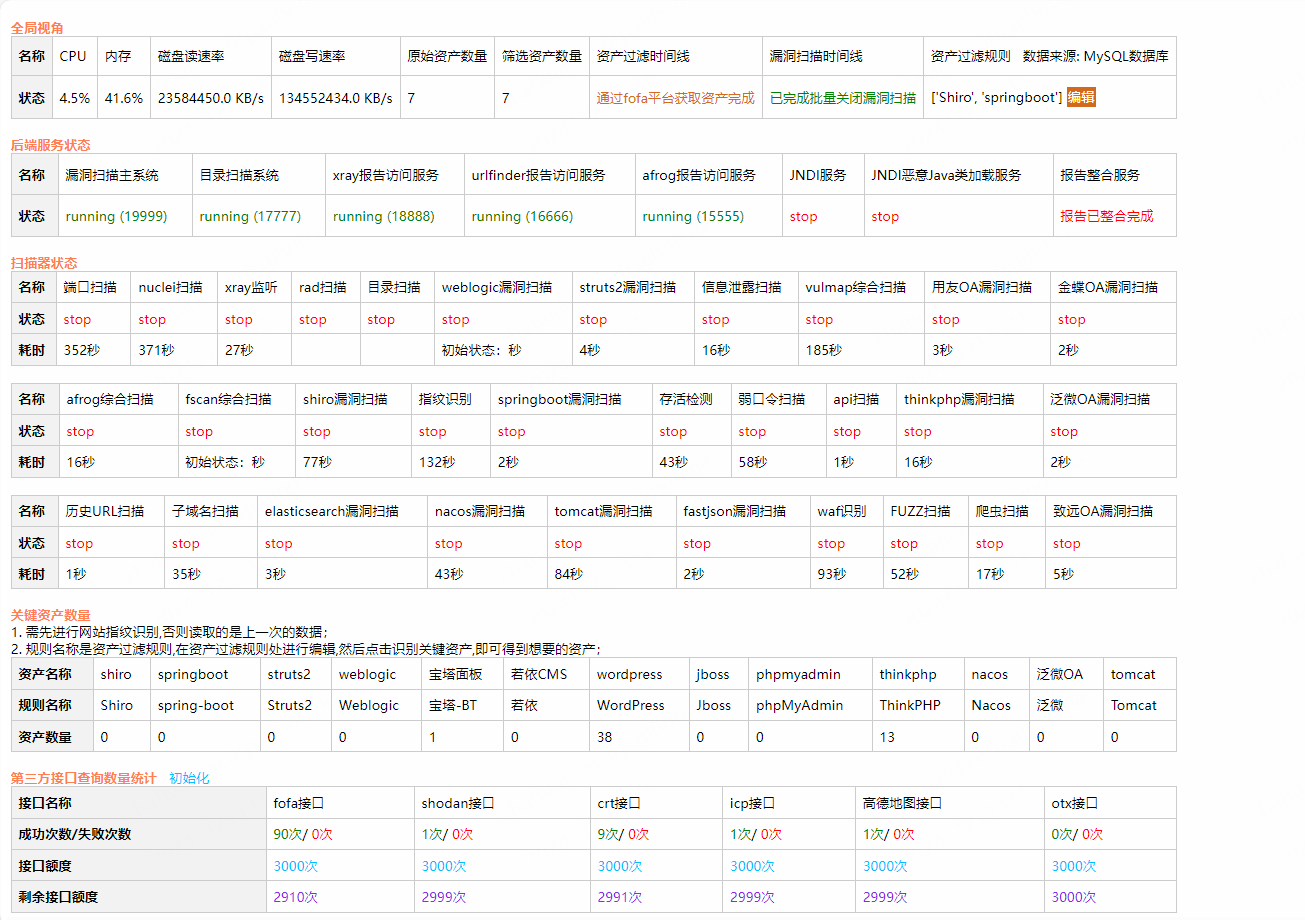
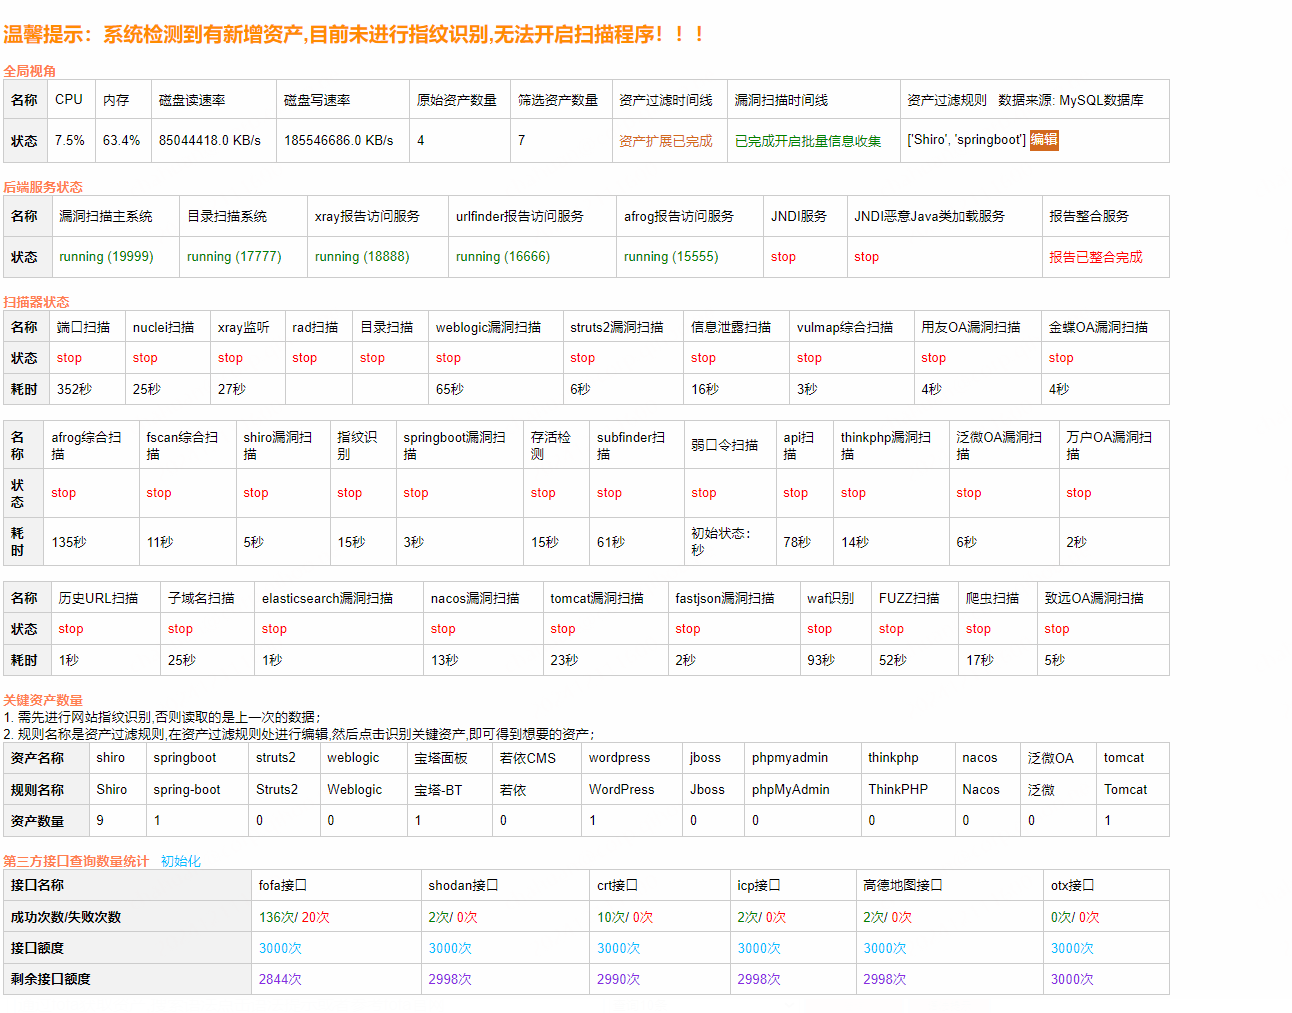
系统优化

diff --git a/static/js/common.js b/static/js/common.js
@@ -113,6 +113,10 @@ function startbutton() {
     button24.disabled = false;
     var button25 = document.getElementById("button25");
     button25.disabled = false;
+    var button26 = document.getElementById("button26");
+    button26.disabled = false;
+    var button27 = document.getElementById("button27");
+    button27.disabled = false;
     var button51 = document.getElementById("button51");
     button51.disabled = false;
     var button63 = document.getElementById("button63");
@@ -149,6 +153,10 @@ function stopbutton() {
     button24.disabled = true;
     var button25 = document.getElementById("button25");
     button25.disabled = true;
+    var button26 = document.getElementById("button26");
+    button26.disabled = true;
+    var button27 = document.getElementById("button27");
+    button27.disabled = true;
     var button51 = document.getElementById("button51");
     button51.disabled = true;
     var button63 = document.getElementById("button63");
@@ -423,6 +431,8 @@ function openModal() {
                 // 运行状态显示绿色，停止状态显示红色
                 document.getElementById("spp1").innerHTML = info.nmapstatus1;
                 document.getElementById("spp1a").innerHTML = info.nmapstatus2;
+                document.getElementById("spp62").innerHTML = info.subfinder_status1;
+                document.getElementById("spp62a").innerHTML = info.subfinder_status2;
                 document.getElementById("spp2").innerHTML = info.nucleistatus1;
                 document.getElementById("spp2a").innerHTML = info.nucleistatus2;
                 document.getElementById("spp3").innerHTML = info.xraystatus1;
@@ -553,6 +563,8 @@ function openModal() {
                 document.getElementById("totalspp1").innerHTML = info.total_report_status_result1;
                 // 扫描器耗时统计
                 document.getElementById("diffnmapid").innerHTML = info.nmapcontime;
+                document.getElementById("diffsubfinderid").innerHTML = info.subfindercontime;
+                
                 document.getElementById("diffeholeid").innerHTML = info.eholecontime;
                 document.getElementById("diffbbscanid").innerHTML = info.bbscancontime;
                 document.getElementById("diffotxid").innerHTML = info.otxcontime;

diff --git a/templates/index.html b/templates/index.html
@@ -237,6 +237,7 @@
 							<td>指纹识别</td>
 							<td>springboot漏洞扫描</td>
 							<td>存活检测</td>
+							<td>subfinder扫描</td>
 							<td>弱口令扫描</td>
 							<td>api扫描</td>
 							<td>thinkphp漏洞扫描</td>
@@ -270,6 +271,10 @@
 								<span id="spp13a" style="color: red;"></span>
 							</td>
 							<td>
+								<span id="spp62" style="color:green"></span>
+								<span id="spp62a" style="color: red;"></span>
+							</td>
+							<td>
 								<span id="spp29" style="color:green"></span>
 								<span id="spp29a" style="color: red;"></span>
 							</td>
@@ -298,6 +303,7 @@
 							<td><span id="diffeholeid"></span></td>
 							<td><span id="diffspringbootid"></span></td>
 							<td><span id="diffhttpxscanid"></span></td>
+							<td><span id="diffsubfinderid"></span></td>
 							<td><span id="diffweakpassid"></span></td>
 							<td><span id="diffapiscanid"></span></td>
 							<td><span id="diffthinkphpid"></span></td>
@@ -1172,10 +1178,10 @@ poc显示区域</textarea>
 										<input type="button" id="button25" value="回退资产" onclick="assetsbackspacefunc()"
 											disabled>
 										&nbsp;&nbsp;
-										<input type="button" id="button25" value="资产优化"
-											onclick="asssets_jiansuo()">&nbsp;&nbsp;
-											<input type="button"  value="资产扩展"
-											onclick="assets_extend_func()">
+										<input type="button" id="button26" value="资产优化"
+											onclick="asssets_jiansuo()" disabled>&nbsp;&nbsp;
+											<input type="button" id="button27" value="资产扩展"
+											onclick="assets_extend_func()" disabled>
 										<br><br>
 										<div style="display: none;" id="divjiansuo1">
 											<input type="text" class="my-input" placeholder="关键字检索和排除资产" value=""

diff --git a/scan_main_web.py b/scan_main_web.py
@@ -454,6 +454,16 @@ def systemmanagement():
             nmapstatus1 = ""
             nmapstatus2 = nmapstatus
             nmapcontime = basic.scan_end_start_time(1)
+        
+        subfinder_status = os.popen('bash /TIP/info_scan/finger.sh subfinder_status').read()
+        if "running" in subfinder_status:
+            subfinder_status1 = subfinder_status
+            subfinder_status2 = ""
+            subfindercontime = "计算中"
+        else:
+            subfinder_status1 = ""
+            subfinder_status2 = subfinder_status
+            subfindercontime = basic.scan_end_start_time(31)
 
         nucleistatus =os.popen('bash /TIP/info_scan/finger.sh nucleistatus').read()
         if "running" in nucleistatus:
@@ -959,6 +969,7 @@ def systemmanagement():
         message_json = {
             # 扫描器耗时统计
             "nmapcontime":nmapcontime+"秒",
+            "subfindercontime":subfindercontime+"秒",
             "eholecontime":eholecontime+"秒",
             "bbscancontime":bbscancontime+"秒",
             "otxcontime":otxcontime+"秒",
@@ -1012,6 +1023,8 @@ def systemmanagement():
             "otx_inter_num_fail":otx_inter_num_fail+"次",
             "nmapstatus1":nmapstatus1,
             "nmapstatus2":nmapstatus2,
+            "subfinder_status1":subfinder_status1,
+            "subfinder_status2":subfinder_status2,
             "nucleistatus1":nucleistatus1,
             "nucleistatus2":nucleistatus2,
             "xraystatus1":xraystatus1,
@@ -4287,7 +4300,8 @@ def assets_extend():
     if str(user) == main_username:
         # 筛选后资产时间线更新
         basic.assets_status_update('资产扩展已完成')
-
+        # subfinder程序用时统计相关
+        basic.scan_total_time_start_time(31)
         # 创建一个新的线程启动资产扩展程序
         def run_asset_extend_process():
             print("已开启一个新的线程用于资产扩展")
@@ -4296,6 +4310,13 @@ def assets_extend():
             except Exception as e:
                 print("捕获到异常:", e)
         threading.Thread(target=run_asset_extend_process).start()
+        # 在后台单独启动1个线程实时判断扫描器停止时间
+        def subfinderscanendtime():
+            while True:
+                time.sleep(1)
+                basic.scan_total_time_final_end_time(31)
+        threading.Thread(target=subfinderscanendtime).start()
+
         httpx_status = os.popen('bash /TIP/info_scan/finger.sh httpx_status').read()
         subfinder_status = os.popen('bash /TIP/info_scan/finger.sh subfinder_status').read()
         if "running" in httpx_status or "running" in subfinder_status:
@@ -4308,7 +4329,6 @@ def assets_extend():
         return jsonify(message_json)
     else:
         return render_template('login.html')
-
 
                 
 

diff --git a/basic.py b/basic.py
@@ -2524,6 +2524,14 @@ def scan_total_time_final_end_time(typepart):
             scan_total_time_end_time(30)
         else:
             print("万户OA漏洞扫描程序运行时间正在计算中...")
+    elif int(typepart) == 31:
+        print("subfinder扫描程序最终截止时间")
+        subfinder_status = os.popen('bash /TIP/info_scan/finger.sh subfinder_status').read()
+        subfinderscanisnull = scan_total_time_endtimeisnull(31)
+        if "stop" in subfinder_status and subfinderscanisnull == 0:
+            scan_total_time_end_time(31)
+        else:
+            print("subfinder扫描程序运行时间正在计算中...")
     else:
         print("开发中...")
 
@@ -2760,16 +2768,37 @@ def expand_range_asset_lib():
     root_domain_list_uniq = list(set(root_domain_list))
 
     f = open(file='/TIP/info_scan/result/subfinder_target.txt', mode='w')
+    # 定义域名常用后缀，用于过滤掉IP资产，IP不存在子域名信息
+    domain_suffix = ['com','net','org','info','xyz','top','gov','edu','mil','pub','cn']
     for k in root_domain_list_uniq:
-        f.write(str(k)+"\n")
+        for j in domain_suffix:
+            if j in k:
+                f.write(str(k)+"\n")
     f.close()
 
-    # 调用subfinder
+    # 调用subfinder获取子域名
     try:
         subprocess.run(['bash', '/TIP/info_scan/finger.sh', 'startsubfinder'], check=True)
     except Exception as e:
         print("错误信息：", e)
-    # 调用httpx
+
+    # 把子域名和资产备份中的IP合成一个列表存入文件，得到最终的资产
+    ip_list = []
+    file = open("/TIP/batch_scan_domain/url_back.txt",encoding='utf-8')
+    for line in file.readlines():
+        ip_list.append(line.strip())
+
+    subfinder_result_list = []
+    file1 = open("/TIP/info_scan/result/subfinder_result.txt",encoding='utf-8')
+    for line1 in file1.readlines():
+        subfinder_result_list.append(line1.strip())
+    domainiplist = ip_list + subfinder_result_list
+    file3 = open(file='/TIP/info_scan/result/subfinder_result.txt',mode='w')
+    for line2 in domainiplist:
+        file3.write(str(line2)+"\n")
+    file3.close()
+    
+    # 调用httpx把子域名中存活的提取出来并带协议
     try:
         subprocess.run(['bash', '/TIP/info_scan/finger.sh', 'subfinder_httpx'], check=True)
     except Exception as e:
